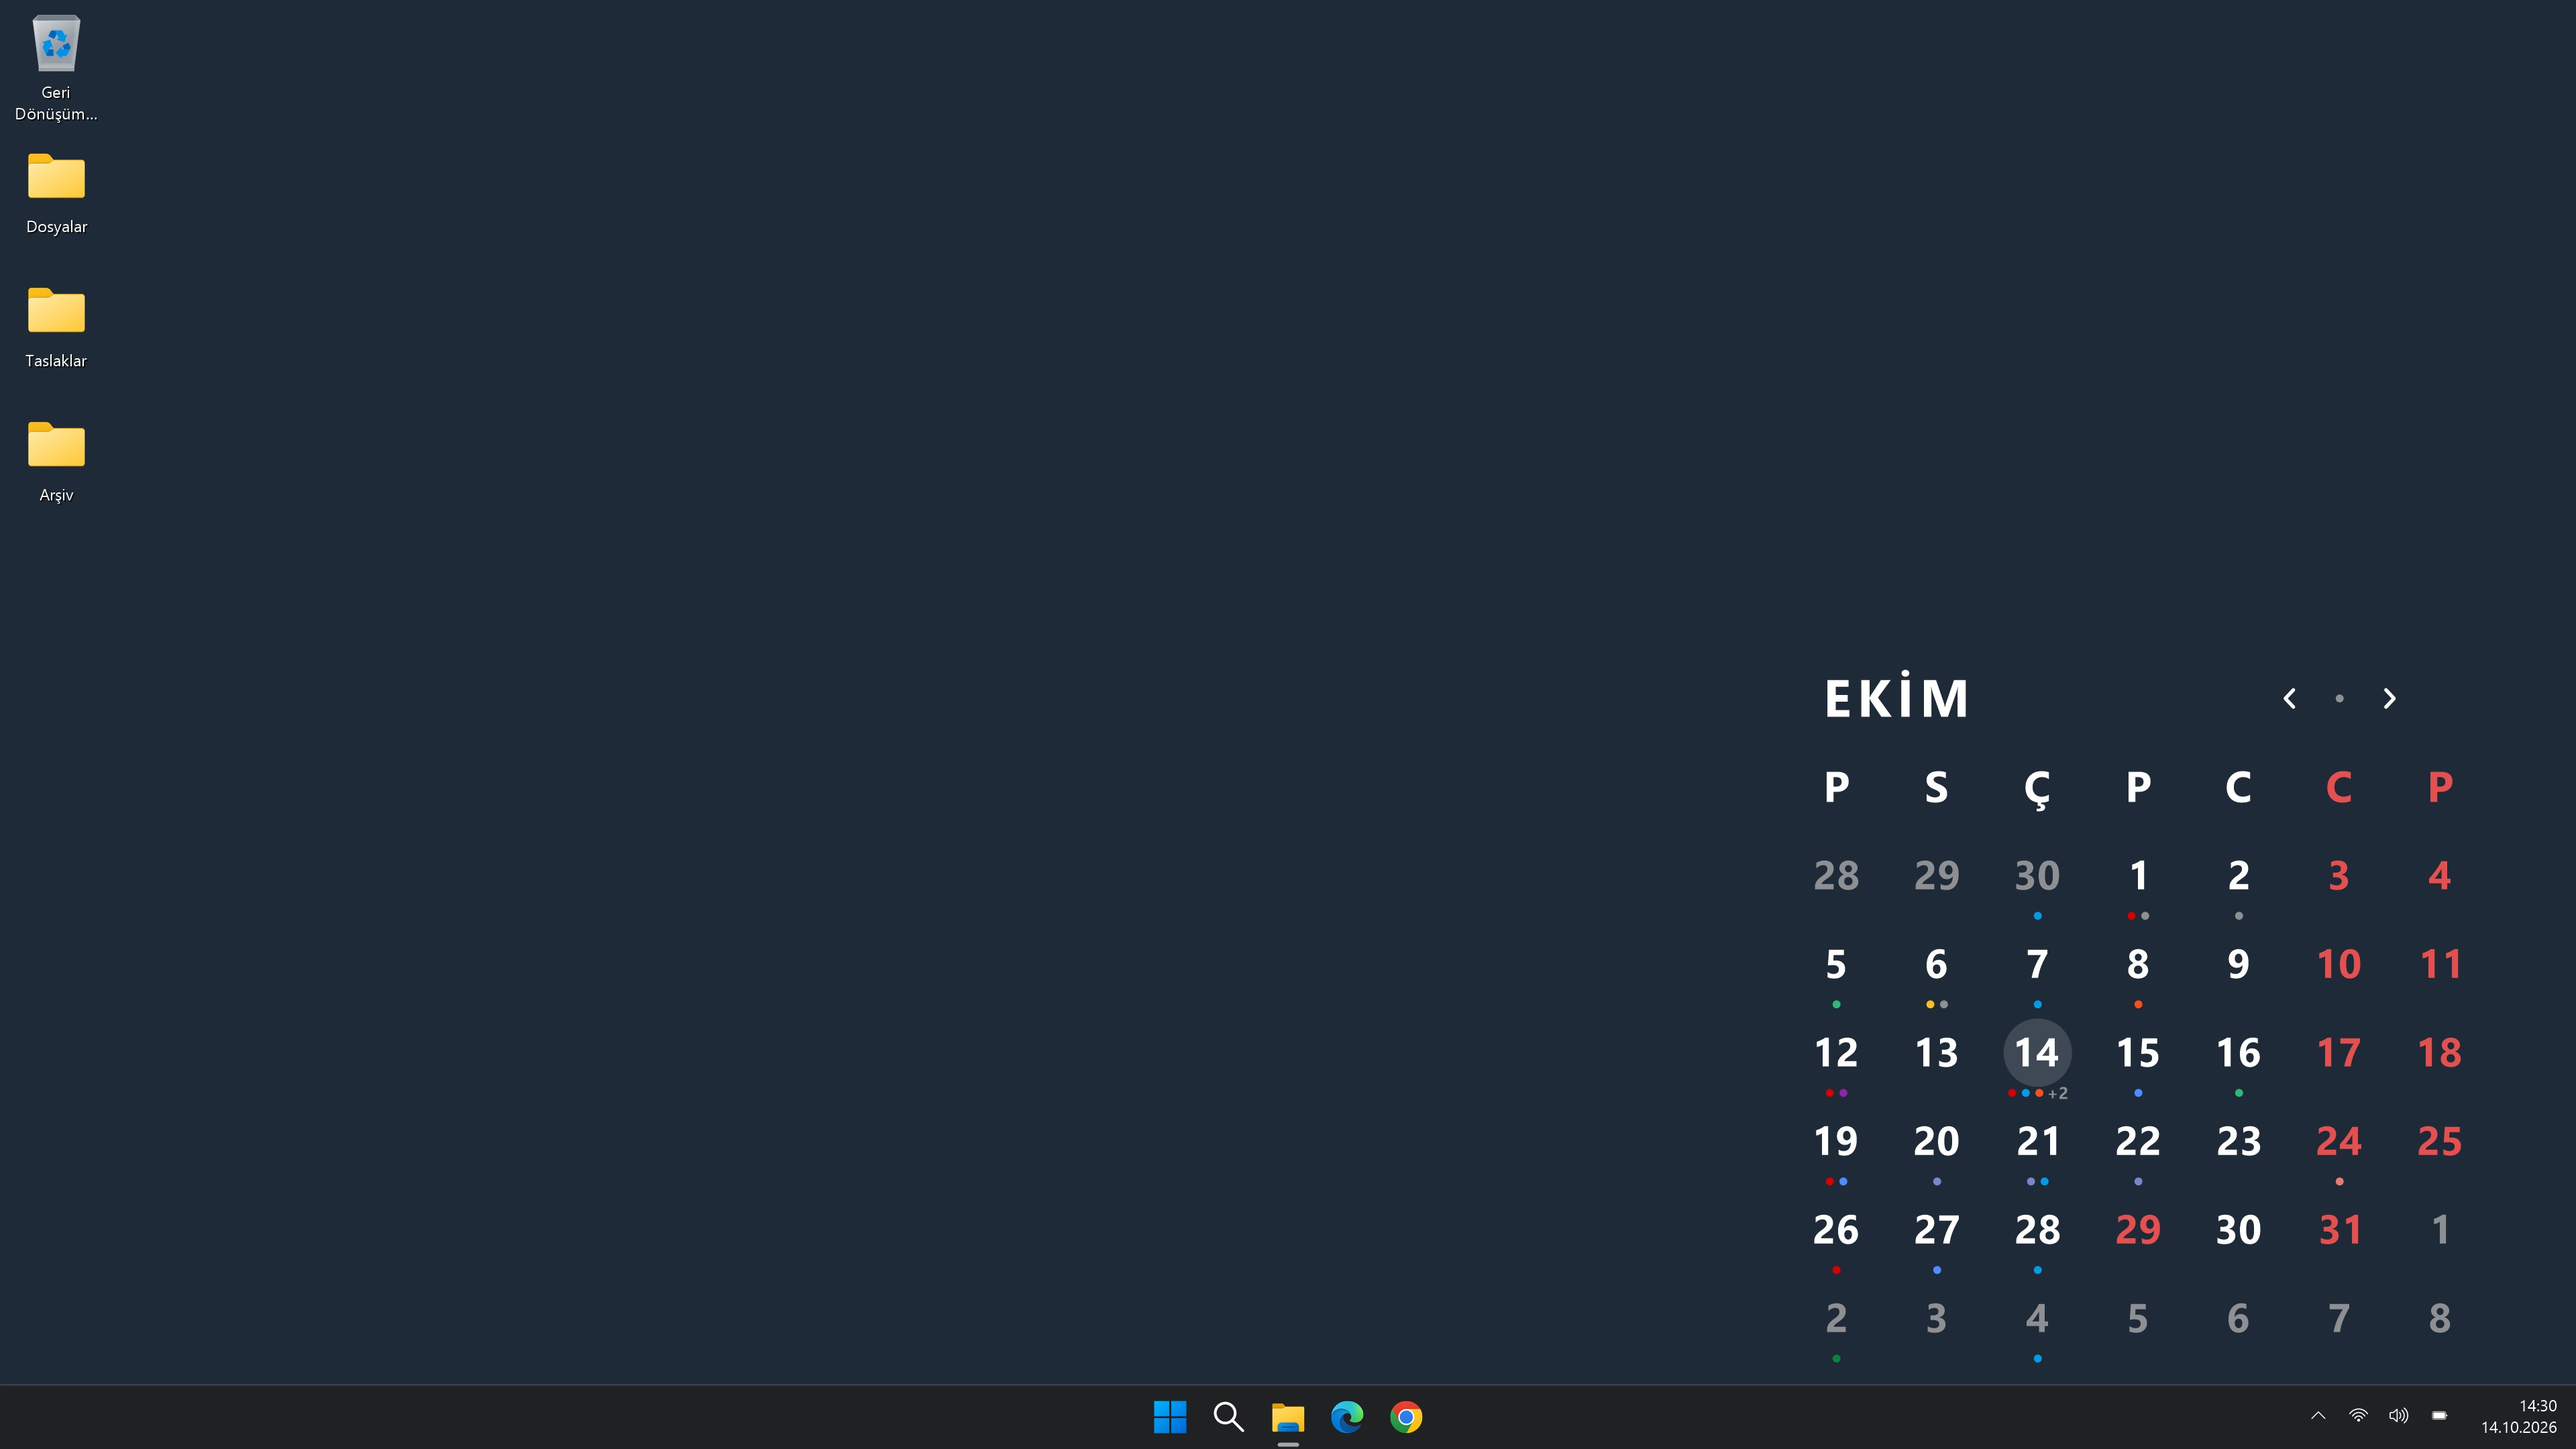
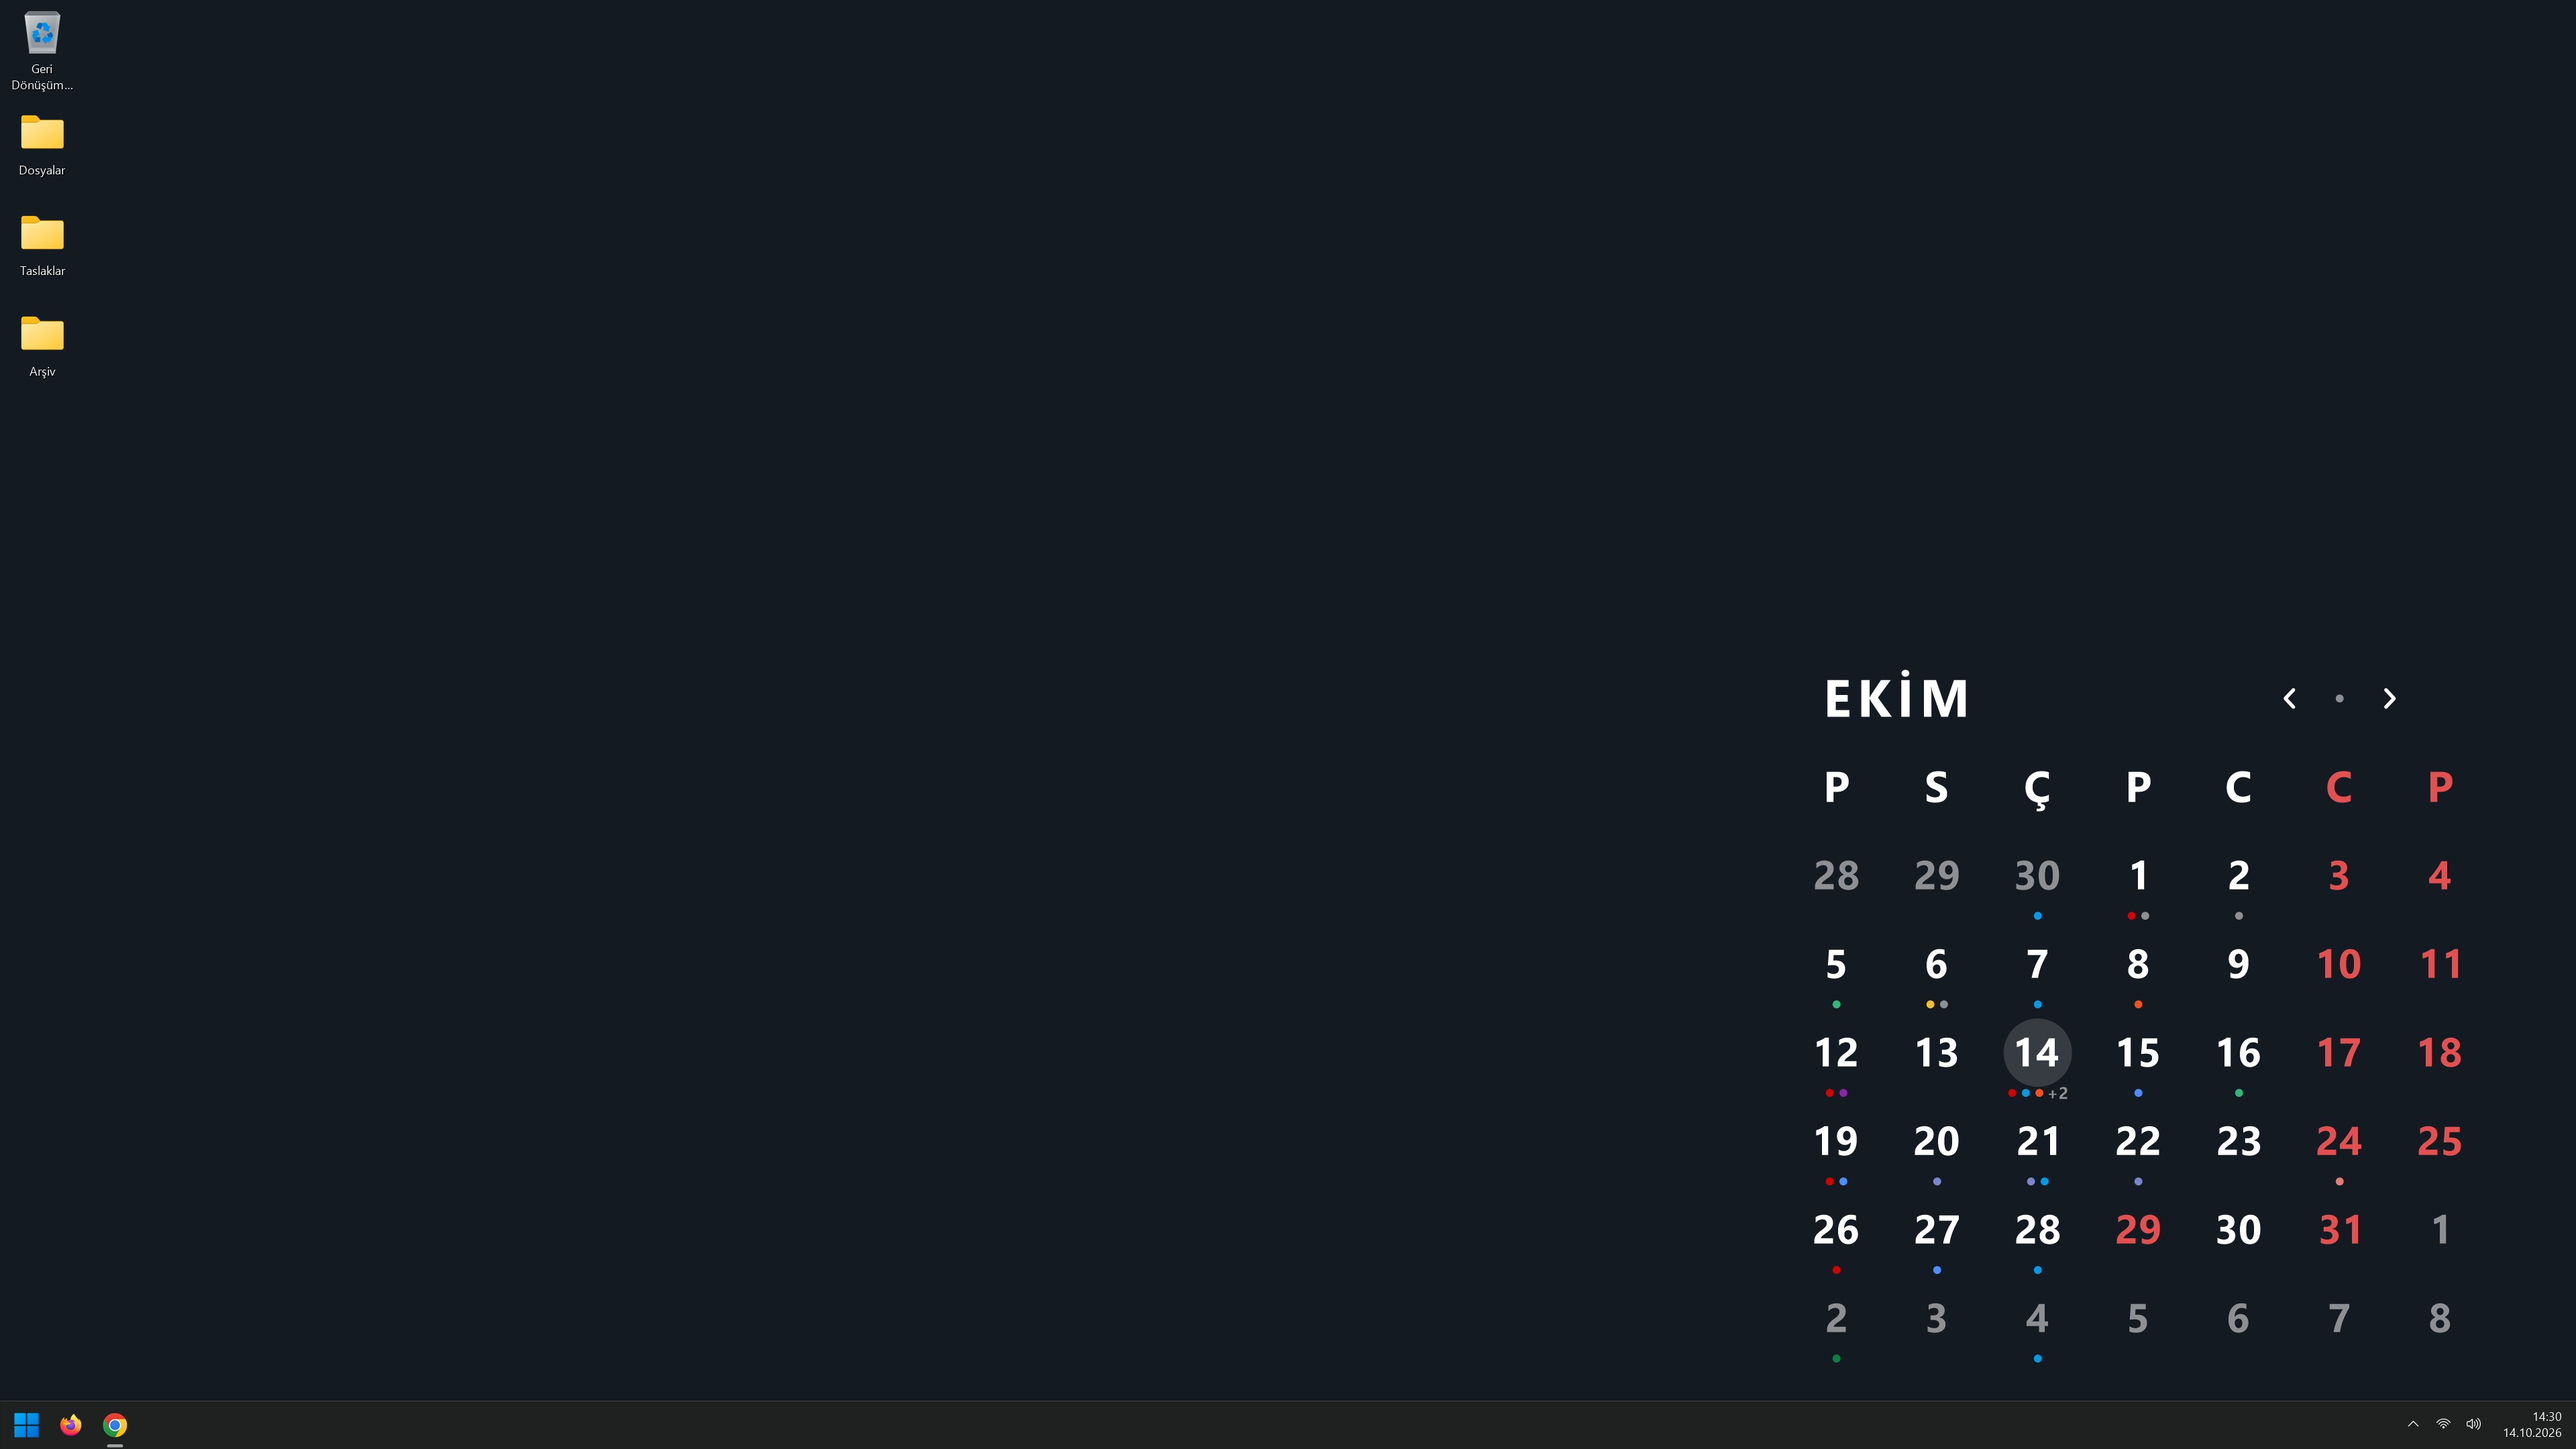
README görüntüleri: tam şeritli görev çubuğu kullanıcının düzeninde, koyu zemin Mürekkep
Tam şeritte simgeler solda, arama düğmesi yok, sabitli uygulamalar Firefox
ve Chrome, pil yok; ölçüler 2560×1440 %100 ekrana göre. İlk görüntünün
zemini Mürekkep (#141A22).

diff --git a/denemeler/ReadmeGorselleri/Masaustu.cs b/denemeler/ReadmeGorselleri/Masaustu.cs
@@ -26,7 +26,18 @@ internal static class Masaustu
             return null;
         }
 
-        if (SHDefExtractIconW(dosya, sira, 0, out IntPtr h, out IntPtr k, (uint)boyut) != 0 || h == IntPtr.Zero)
+        // Bazı programların dosyasında büyük boy yok (Firefox): daha küçüğünü dene.
+        IntPtr h = IntPtr.Zero;
+        IntPtr k = IntPtr.Zero;
+        foreach (int b in new[] { boyut, 128, 64, 48 })
+        {
+            if (SHDefExtractIconW(dosya, sira, 0, out h, out k, (uint)b) == 0 && h != IntPtr.Zero)
+            {
+                break;
+            }
+        }
+
+        if (h == IntPtr.Zero)
         {
             return null;
         }
@@ -116,18 +127,27 @@ internal static class Masaustu
         g.DrawString(ad, yazi, Brushes.White, kutu, bicim);
     }
 
-    private static List<Bitmap?> Uygulamalar(int boy) => new()
-    {
-        Simge(@"C:\Windows\explorer.exe", 0, boy),
-        Simge(@"C:\Program Files (x86)\Microsoft\Edge\Application\msedge.exe", 0, boy),
-        Simge(@"C:\Program Files\Google\Chrome\Application\chrome.exe", 0, boy),
-    };
+    private static List<Bitmap?> Uygulamalar(int boy, bool kullanici) => kullanici
+        ? new()
+        {
+            Simge(@"C:\Program Files\Mozilla Firefox\firefox.exe", 0, boy),
+            Simge(@"C:\Program Files\Google\Chrome\Application\chrome.exe", 0, boy),
+        }
+        : new()
+        {
+            Simge(@"C:\Windows\explorer.exe", 0, boy),
+            Simge(@"C:\Program Files (x86)\Microsoft\Edge\Application\msedge.exe", 0, boy),
+            Simge(@"C:\Program Files\Google\Chrome\Application\chrome.exe", 0, boy),
+        };
 
     private static Color Zemin(bool acik) => acik ? Color.FromArgb(238, 243, 243, 243) : Color.FromArgb(238, 32, 32, 32);
 
     private static Color Yazi(bool acik) => acik ? Color.FromArgb(20, 20, 20) : Color.White;
 
-    /// <summary>Tam şerit: ekranın altı boyunca, simgeler ortada, saat sağda.</summary>
+    /// <summary>
+    /// Tam şerit, kullanıcının kendi görev çubuğu gibi: simgeler solda, arama düğmesi yok,
+    /// sabitli uygulamalar Firefox ve Chrome, saat sağda.
+    /// </summary>
     private static void Serit(Graphics g, Size ekran, double s, bool acik, int yukseklik)
     {
         var alan = new RectangleF(0, ekran.Height - yukseklik, ekran.Width, yukseklik);
@@ -142,9 +162,8 @@ internal static class Masaustu
         }
 
         float dugme = (float)(44 * s);
-        float toplam = 5 * dugme;
-        Dugmeler(g, (ekran.Width - toplam) / 2f, alan.Top + ((yukseklik - dugme) / 2f), dugme, s, acik);
-        Tepsi(g, ekran.Width - (float)(12 * s), alan.Top + (yukseklik / 2f), s, acik);
+        Dugmeler(g, (float)(4 * s), alan.Top + ((yukseklik - dugme) / 2f), dugme, s, acik, kullanici: true);
+        Tepsi(g, ekran.Width - (float)(12 * s), alan.Top + (yukseklik / 2f), s, acik, pil: false);
     }
 
     /// <summary>Ortada: yalnız simgeleri ve saati saran, alttan biraz yukarıda yuvarlak köşeli bir şerit.</summary>
@@ -165,12 +184,15 @@ internal static class Masaustu
             g.DrawPath(p, yol);
         }
 
-        Dugmeler(g, alan.Left + ic, alan.Top + ((yukseklik - dugme) / 2f), dugme, s, acik);
-        Tepsi(g, alan.Right - ic - (float)(4 * s), alan.Top + (yukseklik / 2f), s, acik);
+        Dugmeler(g, alan.Left + ic, alan.Top + ((yukseklik - dugme) / 2f), dugme, s, acik, kullanici: false);
+        Tepsi(g, alan.Right - ic - (float)(4 * s), alan.Top + (yukseklik / 2f), s, acik, pil: true);
     }
 
-    /// <summary>Başlat, Ara ve üç uygulama; Dosya Gezgini açık (altında çizgi).</summary>
-    private static void Dugmeler(Graphics g, float x, float y, float dugme, double s, bool acik)
+    /// <summary>
+    /// Başlat, (kullanıcının düzeninde değilse) Ara ve uygulamalar. Açık uygulamanın altında
+    /// çizgi: kullanıcının düzeninde Chrome, öbüründe Dosya Gezgini.
+    /// </summary>
+    private static void Dugmeler(Graphics g, float x, float y, float dugme, double s, bool acik, bool kullanici)
     {
         float simge = (float)(24 * s);
         float ust = y + ((dugme - simge) / 2f);
@@ -188,8 +210,11 @@ internal static class Masaustu
             g.FillRectangle(mavi, bx + kare + bosluk, ust + kare + bosluk, kare, kare);
         }
 
-        // Ara: büyüteç.
         x += dugme;
+
+        // Ara: büyüteç.
+        if (!kullanici)
+        {
         using (var p = new Pen(Yazi(acik), (float)(2 * s)) { StartCap = LineCap.Round, EndCap = LineCap.Round })
         {
             float r = simge * 0.62f;
@@ -199,7 +224,10 @@ internal static class Masaustu
         }
 
         x += dugme;
-        List<Bitmap?> uyg = Uygulamalar(256);
+        }
+
+        List<Bitmap?> uyg = Uygulamalar(256, kullanici);
+        int acikSira = kullanici ? 1 : 0;
         for (int i = 0; i < uyg.Count; i++)
         {
             if (uyg[i] is { } b)
@@ -208,7 +236,7 @@ internal static class Masaustu
                 b.Dispose();
             }
 
-            if (i == 0)
+            if (i == acikSira)
             {
                 using var vurgu = new SolidBrush(acik ? Color.FromArgb(120, 0, 0, 0) : Color.FromArgb(150, 255, 255, 255));
                 float w = (float)(16 * s);
@@ -221,7 +249,7 @@ internal static class Masaustu
     }
 
     /// <summary>Sağ uçtaki ^, ağ, ses, pil ve iki satırlık saat; sağ kenar verilen x.</summary>
-    private static void Tepsi(Graphics g, float sag, float orta, double s, bool acik)
+    private static void Tepsi(Graphics g, float sag, float orta, double s, bool acik, bool pil)
     {
         using var firca = new SolidBrush(Yazi(acik));
         using var saat = new Font("Segoe UI", (float)(9 * s), GraphicsUnit.Point);
@@ -240,7 +268,10 @@ internal static class Masaustu
 
         using var ortaliBicim = new StringFormat { Alignment = StringAlignment.Center, LineAlignment = StringAlignment.Center };
         float x = sag - olcu.Width - (float)(14 * s);
-        foreach (string glif in new[] { "\uE83F", "\uE767", "\uE701", "\uE70E" })
+        string[] glifler = pil
+            ? new[] { "\uE83F", "\uE767", "\uE701", "\uE70E" }
+            : new[] { "\uE767", "\uE701", "\uE70E" };
+        foreach (string glif in glifler)
         {
             float w = (float)(26 * s);
             g.DrawString(glif, ikon, firca, new RectangleF(x - w, orta - w / 2f, w, w), ortaliBicim);

diff --git a/denemeler/ReadmeGorselleri/Program.cs b/denemeler/ReadmeGorselleri/Program.cs
@@ -104,10 +104,10 @@ internal static class Program
         object anlik = Anlik();
 
         // En üstteki görüntüler: masaüstü simgeleri ve Windows 11 görev çubuğuyla dört zemin.
-        // 3840×2160 ve %200 ölçek: 1920×1080 bir ekranın iki kat keskin hâli.
+        // 3840×2160 ve %150 ölçek: 2560×1440, %100 bir ekranın (kullanıcınınki) bir buçuk kat keskin hâli.
         var masaustleri = new (string Ad, string? Foto, string? Renk, bool Ortada, bool AcikSerit)[]
         {
-            ("masaustu-1.jpg", null, "#1E2A38", false, false),
+            ("masaustu-1.jpg", null, "#141A22", false, false),
             ("masaustu-2.jpg", "sisli-cam-ormani", null, true, false),
             ("masaustu-3.jpg", "sisli-dag-sirtlari", null, false, false),
             ("masaustu-4.jpg", null, "#D9CFC1", true, true),
@@ -116,7 +116,7 @@ internal static class Program
         {
             (Bitmap r, Rectangle blok) = Ciz(new Size(3840, 2160), anlik,
                 m.Foto is null ? null : HazirFotograf(m.Foto), m.Renk, kutu: false);
-            Masaustu.Ciz(r, 2.0, blok, m.Ortada, m.AcikSerit);
+            Masaustu.Ciz(r, 1.5, blok, m.Ortada, m.AcikSerit);
             Kaydet(r, Path.Combine(cikti, m.Ad));
             Console.WriteLine(m.Ad);
         }

diff --git a/README.md b/README.md
@@ -7,7 +7,7 @@ hiç etkilenmez.
 Bir günün üzerinde kısa süre beklediğinizde o günün Google Takvim etkinlikleri ve görevleri küçük
 bir kutuda listelenir. Google hesabına yalnızca okuma izniyle bağlanılır.
 
-![Kalender, koyu düz renk zeminde: masaüstü simgeleri, Windows 11 görev çubuğu ve sağ altta renkli noktacıklı Ekim takvimi](docs/masaustu-1.jpg)
+![Kalender, koyu düz renk (Mürekkep) zeminde: masaüstü simgeleri, Windows 11 görev çubuğu ve sağ altta renkli noktacıklı Ekim takvimi](docs/masaustu-1.jpg)
 
 ![Kalender, sisli çam ormanı fotoğrafında, ortada kısa görev çubuğuyla](docs/masaustu-2.jpg)
 
